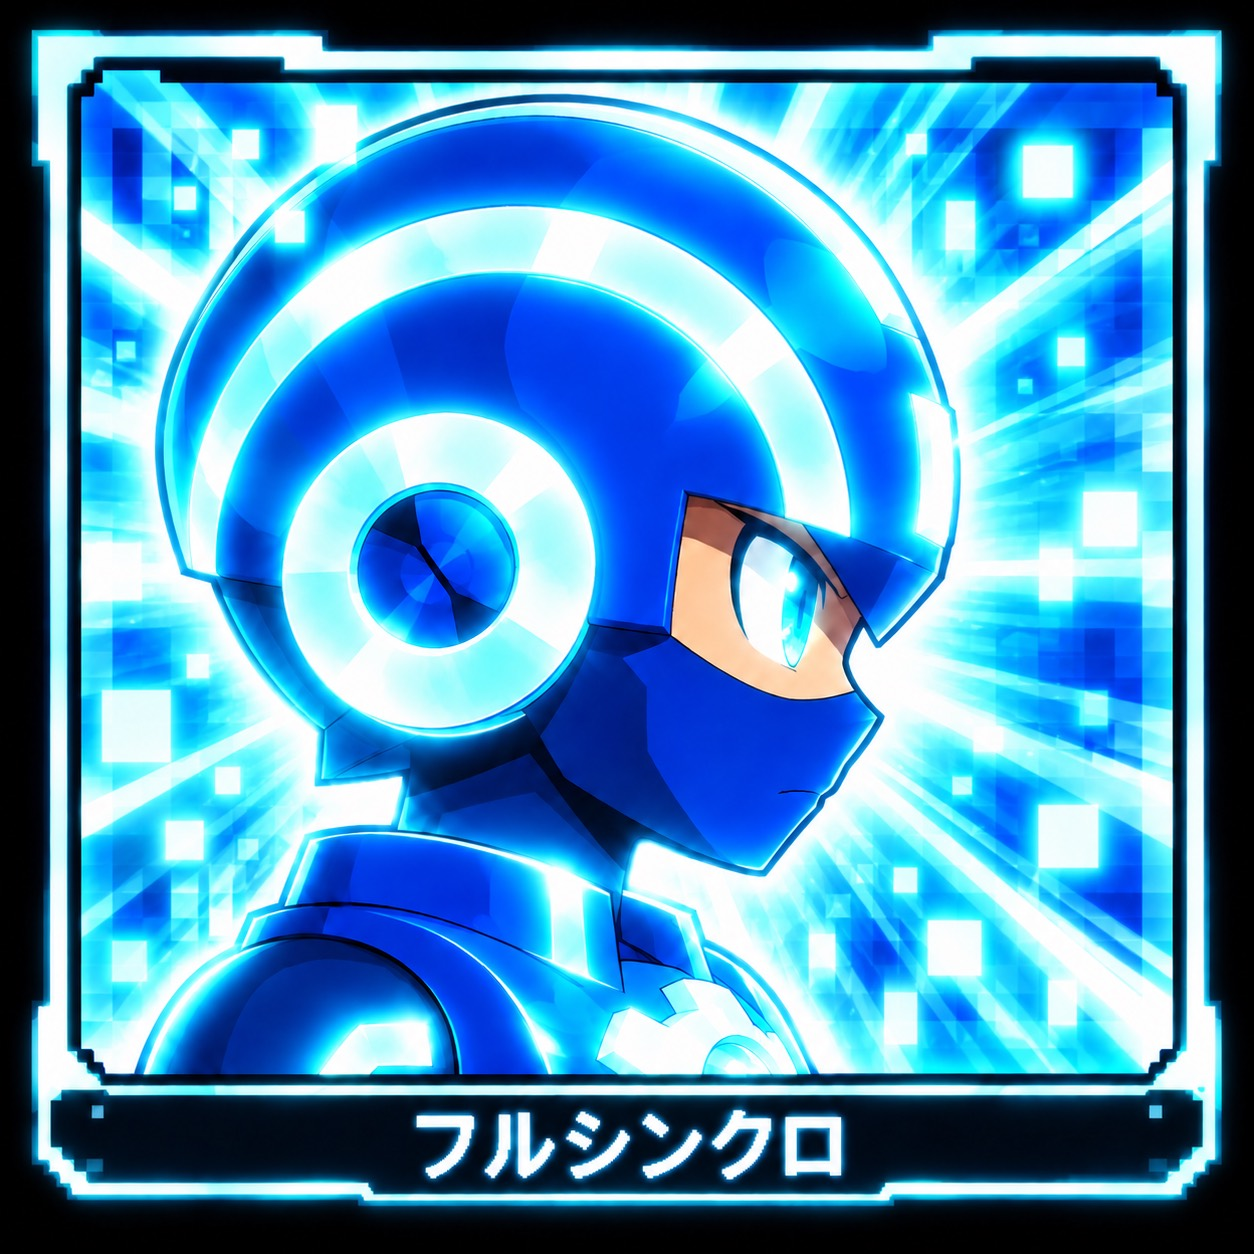
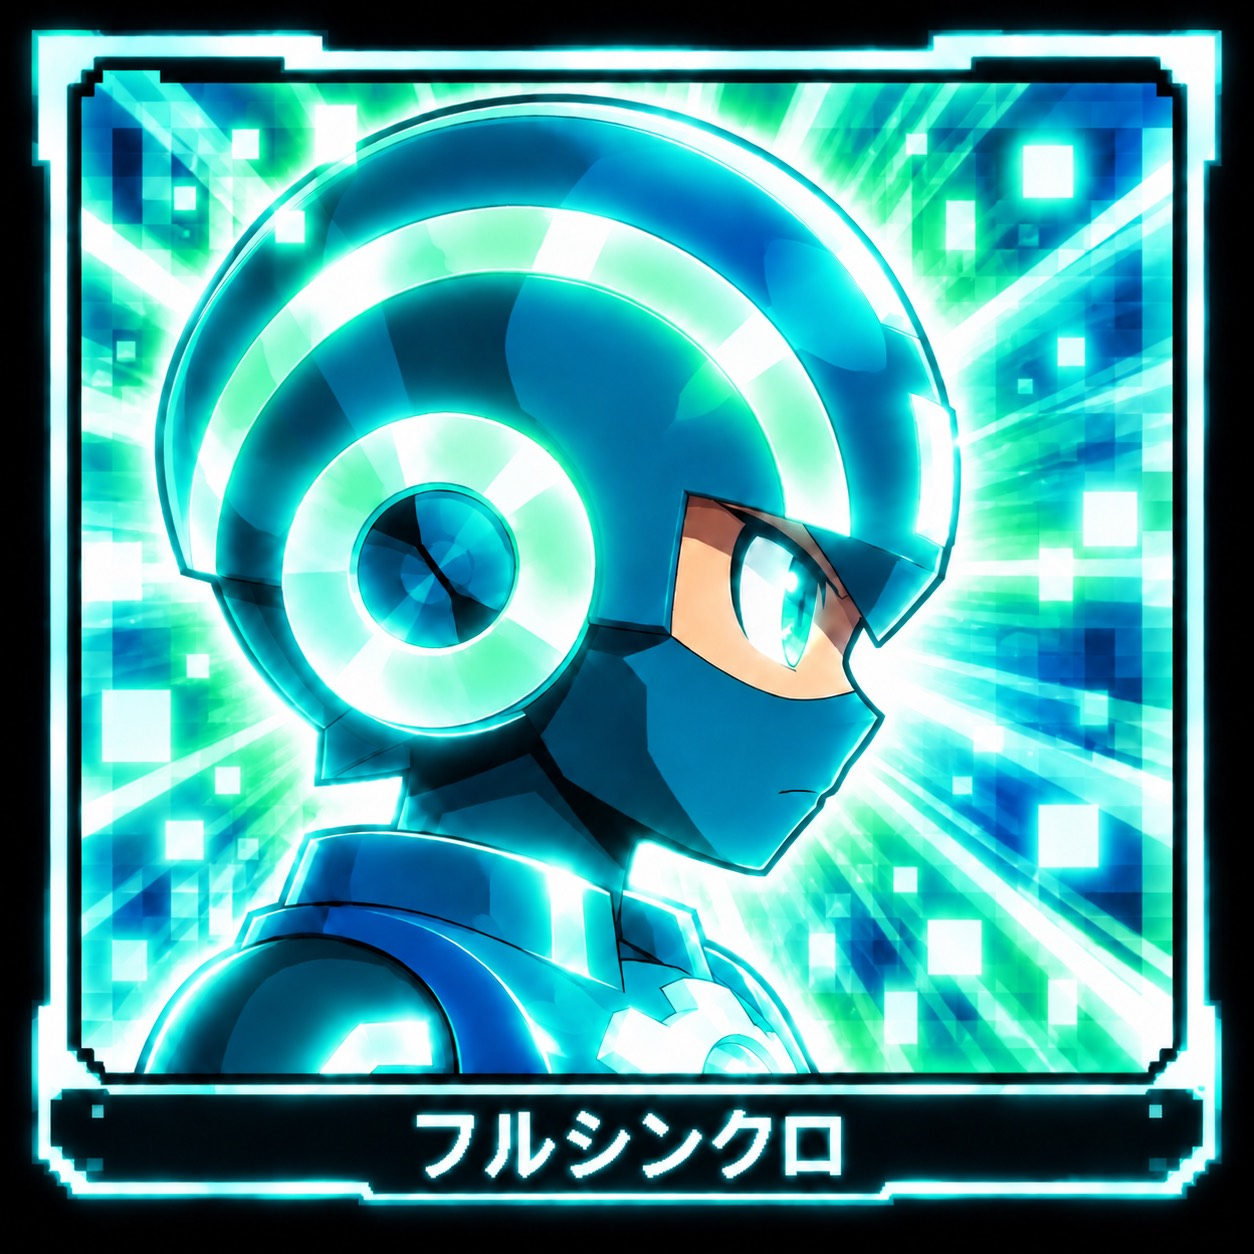
Replace full synchro kokoro portrait with latest supplied image

diff --git a/index.html b/index.html
@@ -7,7 +7,7 @@
 <meta http-equiv="Pragma" content="no-cache">
 <meta http-equiv="Expires" content="0">
 <title>BattleNetwork Prototype</title>
-<link rel="stylesheet" href="./css/style.css?v=96"><link rel="stylesheet" href="./css/font.css"><link rel="stylesheet" href="./css/player-hud.css?v=92"><link rel="stylesheet" href="./css/player-damage.css?v=91"><link rel="stylesheet" href="./css/player-defeat.css?v=93"><link rel="stylesheet" href="./css/wave-status.css?v=99"><link rel="stylesheet" href="./css/field-grid.css?v=39"><link rel="stylesheet" href="./css/range-preview.css?v=60"><link rel="stylesheet" href="./css/chip-detail.css?v=27"><link rel="stylesheet" href="./css/chip-detail-title-extension.css?v=37"><link rel="stylesheet" href="./css/chip-detail-range-fix.css?v=34"><link rel="stylesheet" href="./css/chip-detail-range-grid.css?v=68"><link rel="stylesheet" href="./css/components.css"><link rel="stylesheet" href="./css/chip-class-theme.css?v=35"><link rel="stylesheet" href="./css/chip-detail-theme-refinement.css?v=36">
+<link rel="stylesheet" href="./css/style.css?v=96"><link rel="stylesheet" href="./css/font.css"><link rel="stylesheet" href="./css/player-hud.css?v=93"><link rel="stylesheet" href="./css/player-damage.css?v=91"><link rel="stylesheet" href="./css/player-defeat.css?v=93"><link rel="stylesheet" href="./css/wave-status.css?v=99"><link rel="stylesheet" href="./css/field-grid.css?v=39"><link rel="stylesheet" href="./css/range-preview.css?v=60"><link rel="stylesheet" href="./css/chip-detail.css?v=27"><link rel="stylesheet" href="./css/chip-detail-title-extension.css?v=37"><link rel="stylesheet" href="./css/chip-detail-range-fix.css?v=34"><link rel="stylesheet" href="./css/chip-detail-range-grid.css?v=68"><link rel="stylesheet" href="./css/components.css"><link rel="stylesheet" href="./css/chip-class-theme.css?v=35"><link rel="stylesheet" href="./css/chip-detail-theme-refinement.css?v=36">
 <style>.customGauge .customFill{display:block}.customGauge::after{content:"";position:absolute;left:-12px;right:-12px;top:-10px;bottom:-28px}.player{width:108px;height:136px;border-radius:38px 38px 26px 26px}.bullet.normal{width:30px;height:15px;box-shadow:0 0 12px #50d9ff}.bullet.charged{width:52px;height:26px;box-shadow:0 0 16px #ff514e}.bullet.cannon{width:132px;height:66px;box-shadow:0 0 24px #ffd55a}.editTopBar{top:4px;width:min(560px,68vw);min-height:44px;justify-content:space-between;gap:10px;padding:6px 10px}.editTopBar .label{flex:0 0 auto}#cameraZoomControl{display:grid;grid-template-columns:auto minmax(120px,1fr) 44px;align-items:center;gap:8px;flex:1;min-width:0;font-size:11px;font-weight:900;white-space:nowrap}#cameraZoomSlider{width:100%;min-width:0;touch-action:auto}#cameraZoomValue{min-width:44px;text-align:right}.editTopBar .resetSettings,.editTopBar .doneSettings{flex:0 0 auto;white-space:nowrap}.act.directionLocked{background:linear-gradient(180deg,#8a6514,#59400c);border-color:#ffe27a;color:#fff7c9;box-shadow:0 0 16px rgba(255,219,92,.72),inset 0 0 0 2px rgba(255,246,191,.22);filter:brightness(1.18)}</style>
 </head><body>
 <main class="shell"><footer class="footer"><div class="chipHud"><span class="chipNow" id="chipNow">チップ</span><div class="queue" id="queue"></div></div><button class="gear" id="gear" type="button" aria-label="設定"><svg class="cyberGear" viewBox="0 0 32 32" aria-hidden="true"><path class="outer" d="M13 2h6l1.2 4.1 3.1 1.3 3.8-2.1 4.2 4.2-2.1 3.8 1.3 3.1L34 17v6l-3.5.6-1.3 3.1 2.1 3.8-4.2 4.2-3.8-2.1-3.1 1.3L19 38h-6l-1.2-4.1-3.1-1.3-3.8 2.1-4.2-4.2 2.1-3.8-1.3-3.1L-2 23v-6l3.5-.6 1.3-3.1-2.1-3.8 4.2-4.2 3.8 2.1 3.1-1.3z" transform="scale(.78) translate(4.7 1.7)"/><path class="inner" d="M16 10l5 3v6l-5 3-5-3v-6z"/><path class="circuit" d="M16 5v5M27 16h-6M16 27v-5M5 16h6"/><circle class="node" cx="16" cy="5" r="1.3"/><circle class="node" cx="27" cy="16" r="1.3"/><circle class="node" cx="16" cy="27" r="1.3"/><circle class="node" cx="5" cy="16" r="1.3"/></svg></button></footer><button class="customGauge" id="customGauge" type="button" aria-label="CUSTOM" style="padding:0;-webkit-appearance:none;appearance:none"><span class="customFill" id="customFill"></span><span class="customLabel" id="customLabel"></span></button>

diff --git a/css/player-hud.css b/css/player-hud.css
@@ -9,5 +9,5 @@
 .kokoroStateMark{display:none}
 .kokoroWindow[data-state="NORMAL"]{border-color:#64ddff;background:#071624}
 @media (max-height:390px){.playerStatusHud{left:3px;top:4px;gap:2px}.playerHpWindow{width:68px;height:28px}.kokoroWindow{width:68px;height:28px}.playerHpValue{font-size:21px}}
-.kokoroWindow[data-state="FULL_SYNCHRO"] .kokoroPortrait{background-image:url('../assets/ui/kokoro-fullsynchro.webp?v=2');background-position:center 60%}
+.kokoroWindow[data-state="FULL_SYNCHRO"] .kokoroPortrait{background-image:url('../assets/ui/kokoro-fullsynchro.webp?v=3');background-position:center 60%}
 .kokoroWindow[data-state="ANXIOUS"] .kokoroPortrait{background-image:url('../assets/ui/kokoro-anxious.webp')}
